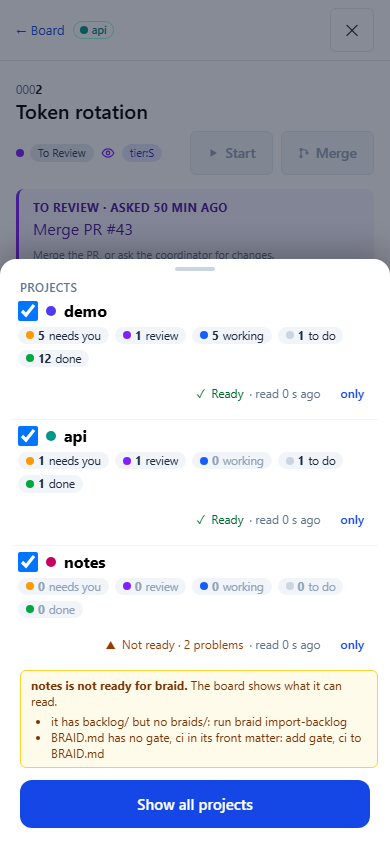
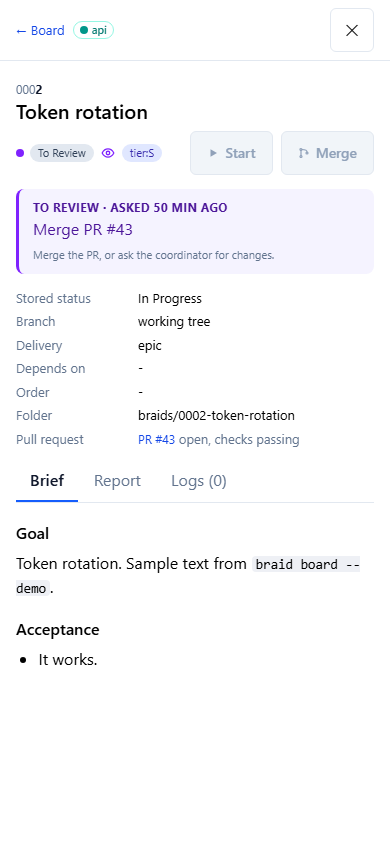
fix(board): unserved project in an item address says so; retake phone panel screenshot

diff --git a/web/src/App.tsx b/web/src/App.tsx
@@ -4,7 +4,7 @@ import { ROLES } from "../../src/braids/roles.ts";
 import { Md } from "./Md.tsx";
 import { LANE_LABEL, ageText, cardMarks, splitId, strandMarks, t3codeUrl, threadEmoji, type Marks } from "../../src/board/marks.ts";
 import { closeMode, hashFor, openMode, parseHash, pushedAfter, type Route } from "../../src/board/route.ts";
-import { filterSearch, parseFilter, toggleProject } from "../../src/board/filter.ts";
+import { filterSearch, parseFilter, resolveProject, toggleProject } from "../../src/board/filter.ts";
 import { DONE_PAGE, doneNewestFirst } from "../../src/board/model.ts";
 import { postAction, useAll, useItem, useTick, type MergeInfo, type StartInfo, type Tick, type InboxEntry, type BraidCard, type ItemDetail, type Lane, type Loaded, type Need, type PullRequest, type ThreadRole, type StrandCard, type ProjectInfo, type TaggedCard } from "./api.ts";
 
@@ -1111,9 +1111,11 @@ function Contents({ braid, current }: { braid: BraidCard; current: string }) {
  * The item's details: a panel over the right of the board (the whole screen below md). The board
  * stays mounted underneath; Esc, the close button, a click on the board and Back close it.
  */
-function DetailsPanel({ id, tab, project, tick }: { id: string; tab: string; project: string; tick: Tick }) {
+function DetailsPanel({ id, tab, project, unknown = null, tick }: { id: string; tab: string; project: string; unknown?: string | null; tick: Tick }) {
   const scope = useContext(ScopeContext);
-  const loaded = useItem(id, project, tick);
+  const fetched = useItem(id, unknown === null ? project : null, tick);
+  const served = [...scope.projects.keys()];
+  const loaded: Loaded<ItemDetail> = unknown === null ? fetched : { state: "error", message: `No such project: ${unknown}. This board serves ${served.join(", ")}.` };
   const failure = scope.projects.get(project)?.info;
   return (
     <ProjectContext value={project}>
@@ -1133,7 +1135,7 @@ function DetailsPanel({ id, tab, project, tick }: { id: string; tab: string; pro
         >
           <div className="flex flex-none items-center gap-2 border-b border-slate-200 px-7 py-2 max-md:px-4">
             <button type="button" onClick={closeDetails} className="cursor-pointer text-[13px] text-blue-700 md:hidden">← Board</button>
-            {scope.several && <ProjectTag name={project} />}
+            {scope.several && unknown === null && <ProjectTag name={project} />}
             <span className="flex-1" />
             <Dialog.Close aria-label="Close details" title="Close (Esc)" className="flex size-8 cursor-pointer items-center justify-center rounded-md border border-slate-200 bg-white text-base hover:border-blue-600 max-md:size-11">✕</Dialog.Close>
           </div>
@@ -1403,7 +1405,7 @@ export function App() {
   // One project served keeps the page as it was: its notes in the header, its problems in a banner.
   const single = infos.length === 1 ? infos[0] : undefined;
   const notes = shown.flatMap((i) => (i.t3?.state === "unavailable" ? [`T3 unavailable (${i.t3.reason})${several ? ` for ${i.name}` : ""}: no agent states`] : []));
-  const project = route.project ?? selected[0] ?? served[0] ?? null;
+  const resolved = resolveProject(route.project, selected, served);
   return (
     <RemoteContext value={all.state !== "ready" || all.data.remote}>
     <ScopeContext value={scope}>
@@ -1452,7 +1454,7 @@ export function App() {
         ) : (
           <Status loaded={all}>{() => (board === null ? null : <Board data={board} details={details} />)}</Status>
         )}
-        {route.id !== null && project !== null && <DetailsPanel id={route.id} tab={route.tab} project={project} tick={tick} />}
+        {route.id !== null && resolved !== null && all.state === "ready" && <DetailsPanel id={route.id} tab={route.tab} project={"name" in resolved ? resolved.name : ""} unknown={"unknown" in resolved ? resolved.unknown : null} tick={tick} />}
       </div>
     </Tooltip.Provider>
     </ScopeContext>

diff --git a/web/src/api.ts b/web/src/api.ts
@@ -54,9 +54,13 @@ export interface Tick {
   readonly fresh: boolean;
 }
 
-function useLoad<T>(url: string, tick: Tick): Loaded<T> {
+/** Loads `url` and again on each tick; a null `url` fetches nothing and stays loading. */
+function useLoad<T>(url: string | null, tick: Tick): Loaded<T> {
   const [result, setResult] = useState<{ url: string; value: Loaded<T> } | null>(null);
   useEffect(() => {
+    if (url === null) {
+      return;
+    }
     let live = true;
     get<T>(tick.fresh ? `${url}${url.includes("?") ? "&" : "?"}fresh=1` : url).then(
       (data) => live && setResult({ url, value: { state: "ready", data } }),
@@ -72,8 +76,9 @@ function useLoad<T>(url: string, tick: Tick): Loaded<T> {
 
 /** The combined board of every project served; the page filters it by the address's `?projects=`. */
 export const useAll = (tick: Tick): Loaded<AllBoard> => useLoad<AllBoard>("/api/all", tick);
-export const useItem = (id: string, project: string, tick: Tick): Loaded<ItemDetail> =>
-  useLoad<ItemDetail>(`/api/item?project=${encodeURIComponent(project)}&id=${encodeURIComponent(id)}`, tick);
+/** One item; with no `project` (an address naming a project that isn't served) nothing is fetched. */
+export const useItem = (id: string, project: string | null, tick: Tick): Loaded<ItemDetail> =>
+  useLoad<ItemDetail>(project === null ? null : `/api/item?project=${encodeURIComponent(project)}&id=${encodeURIComponent(id)}`, tick);
 
 /** The reload requests: the server pushes one every 30 s and when a braid file changes; `refresh` is the button. */
 export function useTick(): { tick: Tick; refresh: () => void } {

diff --git a/test/board-filter.test.ts b/test/board-filter.test.ts
@@ -1,6 +1,6 @@
 import assert from "node:assert/strict";
 import { test } from "node:test";
-import { filterSearch, parseFilter, toggleProject } from "../src/board/filter.ts";
+import { filterSearch, parseFilter, resolveProject, toggleProject } from "../src/board/filter.ts";
 
 const served = ["demo", "api", "notes"];
 
@@ -39,4 +39,14 @@ test("toggling ticks and unticks in served order, and never empties the board", 
   assert.deepEqual(toggleProject(["demo", "api"], "demo", served), ["api"]);
   assert.deepEqual(toggleProject(["notes"], "demo", served), ["demo", "notes"]);
   assert.deepEqual(toggleProject(["api"], "api", served), ["api"]);
+});
+
+test("an address names a served project, else it is unknown and nothing is fetched for it", () => {
+  assert.deepEqual(resolveProject("api", ["demo"], served), { name: "api" });
+  assert.deepEqual(resolveProject(null, ["api", "notes"], served), { name: "api" });
+  assert.deepEqual(resolveProject(null, [], served), { name: "demo" });
+  assert.deepEqual(resolveProject("gone", ["demo"], served), { unknown: "gone" });
+  assert.deepEqual(resolveProject("API", ["demo"], served), { unknown: "API" });
+  assert.equal(resolveProject(null, [], []), null);
+  assert.deepEqual(resolveProject("api", [], []), { unknown: "api" });
 });

diff --git a/src/board/filter.ts b/src/board/filter.ts
@@ -27,3 +27,16 @@ export function toggleProject(selected: readonly string[], name: string, served:
   const next = selected.includes(name) ? selected.filter((n) => n !== name) : [...selected, name];
   return next.length === 0 ? [...selected] : served.filter((n) => next.includes(n));
 }
+
+/**
+ * The project an item's address is in: the name in `#/p/<name>/...` when it is served, else the first project shown.
+ * A name that isn't served is `unknown` (a project removed from the list, a mistyped link): the page says so and asks
+ * the server nothing. `null` when no project is served yet.
+ */
+export function resolveProject(asked: string | null, selected: readonly string[], served: readonly string[]): { readonly name: string } | { readonly unknown: string } | null {
+  if (asked !== null) {
+    return served.includes(asked) ? { name: asked } : { unknown: asked };
+  }
+  const first = selected[0] ?? served[0];
+  return first === undefined ? null : { name: first };
+}

diff --git a/docs/board.md b/docs/board.md
@@ -166,7 +166,7 @@ One `braid board` serves every project in this machine's [project list](braids-f
 
   ![One project shown](design/board-screenshots/53-filter-one-project.png)
 - **Project tags.** With two or more projects shown, a card, a Done row and an inbox entry carry a tag with the project's name and a colour (placeholder colours by position in the project list). With one project shown the tags are hidden. Cards of a project whose latest read failed have a dashed edge and a ⚠ in the tag (its tooltip says how long ago the read failed): they show that project's older board.
-- **Addresses.** With several projects served, an item opens at `#/p/<project>/0003` (`#/p/<project>/0003/A?tab=report`); `#/0003`, `#/0003/A` and `#/inbox` still work and mean the first project shown. The panel's header shows the project's tag, and a red note when its latest read failed. Every action the page sends carries the item's `project`, so Start, Merge, Open thread and Promote run in that project. The Merge "asked" memory is kept per project and item.
+- **Addresses.** With several projects served, an item opens at `#/p/<project>/0003` (`#/p/<project>/0003/A?tab=report`); `#/0003`, `#/0003/A` and `#/inbox` still work and mean the first project shown. A project name that isn't served (a project removed from the list, a mistyped link) is not asked of the server: the panel says "No such project" and names the served ones (`resolveProject` in `src/board/filter.ts`). The panel's header shows the project's tag, and a red note when its latest read failed. Every action the page sends carries the item's `project`, so Start, Merge, Open thread and Promote run in that project. The Merge "asked" memory is kept per project and item.
 
   ![A card with its tag, and its panel](design/board-screenshots/55-card-project-tag-and-panel.png)
 - **Inbox.** One page for the projects shown; each entry is tagged with its project, and Promote uses that project's `expected` and `base`.

diff --git a/braids/0049-one-board-for-all-your-projects/D-all-projects-page-mockups-then-build/report.md b/braids/0049-one-board-for-all-your-projects/D-all-projects-page-mockups-then-build/report.md
@@ -8,6 +8,7 @@ The board page shows every project at once. One combined board holds the cards o
 - **Cards and panel.** With two or more projects shown, cards, Done rows and inbox entries carry the project tag; cards of a project whose last read failed get a dashed edge and ⚠. The panel header repeats the tag and shows a red note for a failed read.
 - **Addresses.** `#/p/<project>/0003` (with `?tab=`), and `#/0003`, `#/0003/A`, `#/inbox` still work and mean the first project shown. Every action (Start, Merge, Open thread, Promote) now sends the item's `project`.
 - **One project served** looks as before: no block, no tags; a failed read gets a red banner of its own.
+- An address naming a project that isn't served (`#/p/gone/0001`) is resolved against the served projects before any fetch (`resolveProject`, tested) and the panel says "No such project: gone. This board serves …".
 - `docs/board.md` (Several projects, Demo), `docs/decisions.md` (D79), screenshots `51`–`59` in `docs/design/board-screenshots/`.
 
 ## Why
@@ -16,9 +17,14 @@ The user works on several projects and wants one place to see what needs them (0
 
 ## Validation
 
-- `test/board-route.test.ts` and the new `test/board-filter.test.ts` cover the routes and the filter.
+- `test/board-route.test.ts` and the new `test/board-filter.test.ts` cover the routes, the filter and the unknown-project case.
 - Ran `braid board --demo` (three projects, `notes` not ready) and took the screenshots from it with Chrome: all, one, two of three, opened and collapsed block, card with tag and panel, inbox, phone picker and phone panel.
 - The gate (`npm run verify`) passes; CI status is in the PR.
+
+## Review fixes (PR #199)
+
+- Screenshot 59 retaken with the sheet closed (a hash-only navigation had kept the previous shot's open sheet); it now shows the phone panel itself.
+- Unknown project in the address: see above.
 
 ## Open
 

diff --git a/braids/0049-one-board-for-all-your-projects/D-all-projects-page-mockups-then-build/log-2026-11-20-3bd2591d.md b/braids/0049-one-board-for-all-your-projects/D-all-projects-page-mockups-then-build/log-2026-11-20-3bd2591d.md
@@ -5,3 +5,7 @@ Mockups 41-49 in docs/design/board-mockups/ (all-projects.html renders them with
 ## 2026-11-20 22:19Z
 
 Built the approved design: Projects block collapsed by default (summary line always names a failed read and a not-ready project; open state kept in localStorage), ?projects= filter, #/p/<project>/<id> routes, tags, dashed edge and warning mark for a failed read, merged inbox, phone picker sheet. One project served is unchanged. Gate passed.
+
+## 2026-11-20 22:28Z
+
+Review of PR #199 (not blocking): retook screenshot 59 with the sheet closed; an address naming an unserved project is resolved before the fetch and shows "No such project" (test added).
